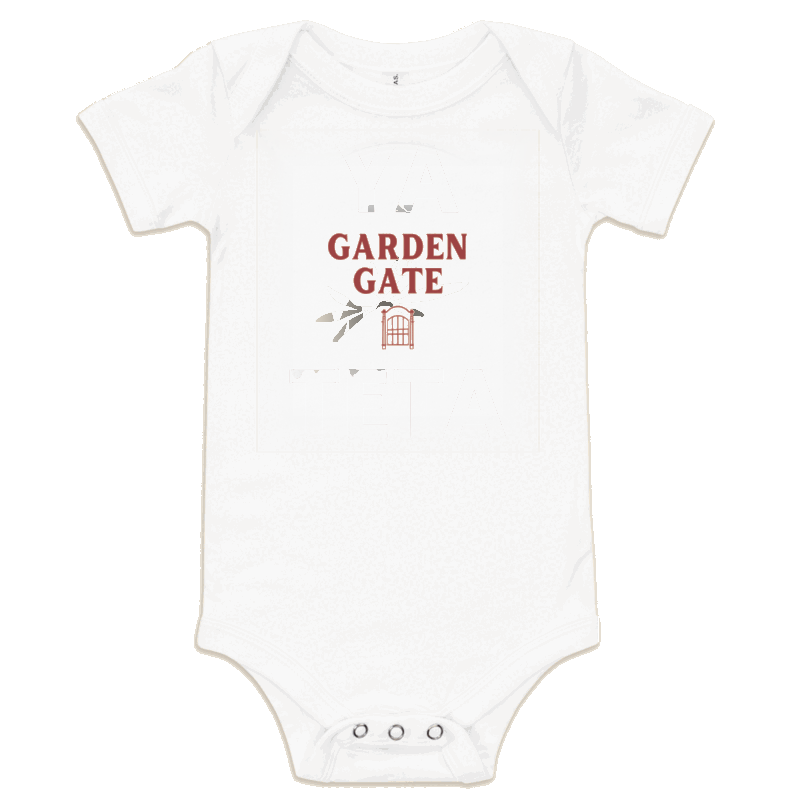
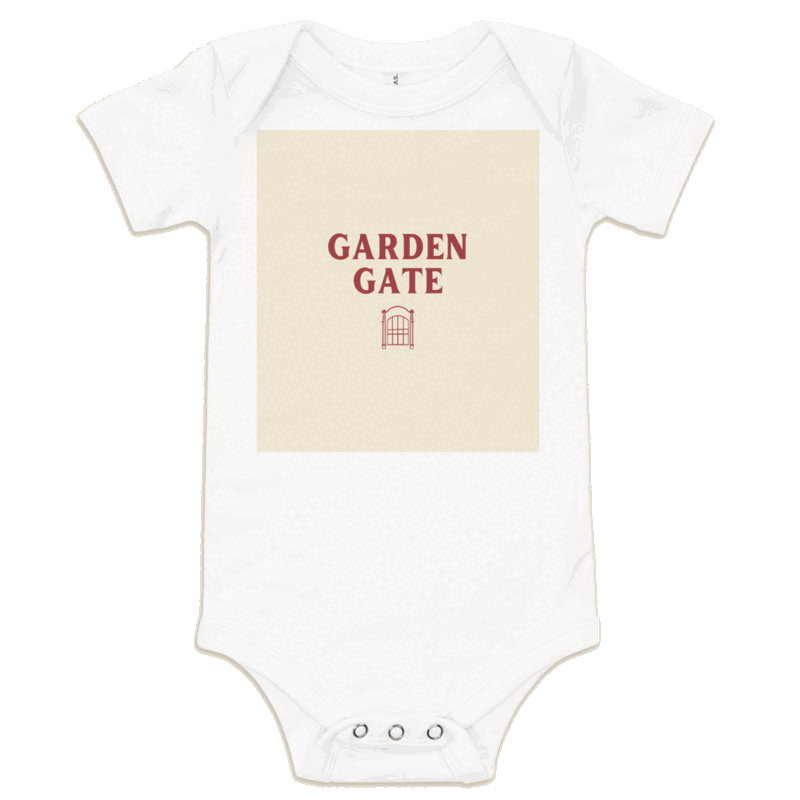
fix(storefront): restore photos that picked up ghost type
The onesie and tote composites were painted onto other products. Those files are back to their 22f9dbc bytes. The rebalanced Gather & Grow art stays in the pipeline, and the share image keeps a small ESTD 2024 line.

Changed region(s): [[0.3125, 0.1562, 0.6875, 0.5625]]

diff --git a/site/shop.html b/site/shop.html
@@ -185,7 +185,7 @@
     <div class="product-row"><h3>Early Light</h3><span class="price">$31.99</span></div>
   </div>
 </a><a class="product-card reveal" href="product-gather-grow.html" data-category="totes">
-  <div class="product-media"><img class="mockup" src="assets/mockups/gather-grow.png?v=15" alt="Gather &amp; Grow" width="800" height="800" loading="lazy" decoding="async"></div>
+  <div class="product-media"><img class="mockup" src="assets/mockups/gather-grow.png?v=14" alt="Gather &amp; Grow" width="800" height="800" loading="lazy" decoding="async"></div>
   <div class="product-copy">
     <div class="product-type">Tote</div>
     <div class="product-row"><h3>Gather &amp; Grow</h3><span class="price">$31.99</span></div>
@@ -211,8 +211,8 @@
     <div class="product-type">Onesie</div>
     <div class="product-row"><h3>Amoura</h3><span class="price">$27.99</span></div>
   </div>
-</a><a class="product-card reveal" href="product-garden-gate.html" data-category="baby" data-preview="[&quot;assets/angles/garden-gate/back-view.png?v=18&quot;]">
-  <div class="product-media"><img class="mockup" src="assets/mockups/garden-gate.png?v=18" alt="Garden Gate" width="800" height="800" loading="lazy" decoding="async"></div>
+</a><a class="product-card reveal" href="product-garden-gate.html" data-category="baby" data-preview="[&quot;assets/angles/garden-gate/back-view.png?v=17&quot;]">
+  <div class="product-media"><img class="mockup" src="assets/mockups/garden-gate.png?v=17" alt="Garden Gate" width="800" height="800" loading="lazy" decoding="async"></div>
   <div class="product-copy">
     <div class="product-type">Onesie</div>
     <div class="product-row"><h3>Garden Gate</h3><span class="price">$27.99</span></div>

diff --git a/site/index.html b/site/index.html
@@ -162,10 +162,10 @@
   <div class="pcard-media"><img class="mockup" src="assets/angles/khalas-habibi/front.png?v=11" alt="Khalas Habibi" width="800" height="800" loading="lazy" decoding="async"></div>
   <div class="pcard-type">Tee</div>
   <div class="pcard-row"><div class="pcard-title">Khalas Habibi</div><div class="pcard-price">$24.99</div></div>
-</a><a class="pcard reveal" href="product-gather-grow.html" data-category="totes">
-  <div class="pcard-media"><img class="mockup" src="assets/angles/gather-grow/handle-on-right.png?v=15" alt="Gather &amp; Grow" width="800" height="800" loading="lazy" decoding="async"></div>
+</a><a class="pcard reveal" href="product-sit-el-kul.html" data-category="totes">
+  <div class="pcard-media"><img class="mockup" src="assets/angles/sit-el-kul/handle-on-right.png?v=14" alt="Sit El Kul" width="800" height="800" loading="lazy" decoding="async"></div>
   <div class="pcard-type">Tote</div>
-  <div class="pcard-row"><div class="pcard-title">Gather &amp; Grow</div><div class="pcard-price">$31.99</div></div>
+  <div class="pcard-row"><div class="pcard-title">Sit El Kul</div><div class="pcard-price">$31.99</div></div>
 </a><a class="pcard reveal" href="product-ya-teta.html" data-category="baby">
   <div class="pcard-media"><img class="mockup" src="assets/angles/ya-teta/front-view.png?v=11" alt="Ya Teta" width="800" height="800" loading="lazy" decoding="async"></div>
   <div class="pcard-type">Onesie</div>

diff --git a/site/product-garden-gate.html b/site/product-garden-gate.html
@@ -78,10 +78,10 @@
 </div>
 <main id="main">
   <div class="shell product-page">
-    <div class="spin" data-spin data-kind="baby" data-frames="[{&quot;src&quot;:&quot;assets/angles/garden-gate/front-view.png?v=18&quot;,&quot;label&quot;:&quot;front view&quot;},{&quot;src&quot;:&quot;assets/angles/garden-gate/back-view.png?v=18&quot;,&quot;label&quot;:&quot;back view&quot;}]" data-alt="Garden Gate">
+    <div class="spin" data-spin data-kind="baby" data-frames="[{&quot;src&quot;:&quot;assets/angles/garden-gate/front-view.png?v=17&quot;,&quot;label&quot;:&quot;front view&quot;},{&quot;src&quot;:&quot;assets/angles/garden-gate/back-view.png?v=17&quot;,&quot;label&quot;:&quot;back view&quot;}]" data-alt="Garden Gate">
       <div class="spin-counter" data-spin-counter>front view</div>
       <div class="spin-stage" data-spin-stage>
-        <img data-spin-image class="mockup" src="assets/angles/garden-gate/front-view.png?v=18" alt="Garden Gate" width="1200" height="1200" decoding="async">
+        <img data-spin-image class="mockup" src="assets/angles/garden-gate/front-view.png?v=17" alt="Garden Gate" width="1200" height="1200" decoding="async">
       </div>
       <div class="spin-hint" data-spin-hint>Drag to rotate</div>
       <div class="spin-controls">

diff --git a/site/onesies.html b/site/onesies.html
@@ -95,8 +95,8 @@
     <div class="product-type">Onesie</div>
     <div class="product-row"><h3>Amoura</h3><span class="price">$27.99</span></div>
   </div>
-</a><a class="product-card reveal" href="product-garden-gate.html" data-category="baby" data-preview="[&quot;assets/angles/garden-gate/back-view.png?v=18&quot;]">
-  <div class="product-media"><img class="mockup" src="assets/mockups/garden-gate.png?v=18" alt="Garden Gate" width="800" height="800" loading="lazy" decoding="async"></div>
+</a><a class="product-card reveal" href="product-garden-gate.html" data-category="baby" data-preview="[&quot;assets/angles/garden-gate/back-view.png?v=17&quot;]">
+  <div class="product-media"><img class="mockup" src="assets/mockups/garden-gate.png?v=17" alt="Garden Gate" width="800" height="800" loading="lazy" decoding="async"></div>
   <div class="product-copy">
     <div class="product-type">Onesie</div>
     <div class="product-row"><h3>Garden Gate</h3><span class="price">$27.99</span></div>

diff --git a/site/product-gather-grow.html b/site/product-gather-grow.html
@@ -78,9 +78,9 @@
 </div>
 <main id="main">
   <div class="shell product-page">
-    <div class="spin" data-spin data-kind="totes" data-frames="[{&quot;src&quot;:&quot;assets/angles/gather-grow/handle-on-right.png?v=15&quot;,&quot;label&quot;:&quot;Handle on Right&quot;}]" data-alt="Gather &amp; Grow">
+    <div class="spin" data-spin data-kind="totes" data-frames="[{&quot;src&quot;:&quot;assets/angles/gather-grow/handle-on-right.png?v=14&quot;,&quot;label&quot;:&quot;Handle on Right&quot;}]" data-alt="Gather &amp; Grow">
       <div class="spin-stage" data-spin-stage>
-        <img data-spin-image class="mockup" src="assets/angles/gather-grow/handle-on-right.png?v=15" alt="Gather &amp; Grow" width="1200" height="1200" decoding="async">
+        <img data-spin-image class="mockup" src="assets/angles/gather-grow/handle-on-right.png?v=14" alt="Gather &amp; Grow" width="1200" height="1200" decoding="async">
       </div>
     </div>
     <div class="product-meta">

diff --git a/site/product-halawa.html b/site/product-halawa.html
@@ -115,7 +115,7 @@
     <div class="product-row"><h3>Early Light</h3><span class="price">$31.99</span></div>
   </div>
 </a><a class="product-card reveal" href="product-gather-grow.html" data-category="totes">
-  <div class="product-media"><img class="mockup" src="assets/mockups/gather-grow.png?v=15" alt="Gather &amp; Grow" width="800" height="800" loading="lazy" decoding="async"></div>
+  <div class="product-media"><img class="mockup" src="assets/mockups/gather-grow.png?v=14" alt="Gather &amp; Grow" width="800" height="800" loading="lazy" decoding="async"></div>
   <div class="product-copy">
     <div class="product-type">Tote</div>
     <div class="product-row"><h3>Gather &amp; Grow</h3><span class="price">$31.99</span></div>

diff --git a/site/product-sit-el-kul.html b/site/product-sit-el-kul.html
@@ -115,7 +115,7 @@
     <div class="product-row"><h3>Early Light</h3><span class="price">$31.99</span></div>
   </div>
 </a><a class="product-card reveal" href="product-gather-grow.html" data-category="totes">
-  <div class="product-media"><img class="mockup" src="assets/mockups/gather-grow.png?v=15" alt="Gather &amp; Grow" width="800" height="800" loading="lazy" decoding="async"></div>
+  <div class="product-media"><img class="mockup" src="assets/mockups/gather-grow.png?v=14" alt="Gather &amp; Grow" width="800" height="800" loading="lazy" decoding="async"></div>
   <div class="product-copy">
     <div class="product-type">Tote</div>
     <div class="product-row"><h3>Gather &amp; Grow</h3><span class="price">$31.99</span></div>

diff --git a/site/totes.html b/site/totes.html
@@ -102,7 +102,7 @@
     <div class="product-row"><h3>Early Light</h3><span class="price">$31.99</span></div>
   </div>
 </a><a class="product-card reveal" href="product-gather-grow.html" data-category="totes">
-  <div class="product-media"><img class="mockup" src="assets/mockups/gather-grow.png?v=15" alt="Gather &amp; Grow" width="800" height="800" loading="lazy" decoding="async"></div>
+  <div class="product-media"><img class="mockup" src="assets/mockups/gather-grow.png?v=14" alt="Gather &amp; Grow" width="800" height="800" loading="lazy" decoding="async"></div>
   <div class="product-copy">
     <div class="product-type">Tote</div>
     <div class="product-row"><h3>Gather &amp; Grow</h3><span class="price">$31.99</span></div>

diff --git a/site/product-early-light.html b/site/product-early-light.html
@@ -115,7 +115,7 @@
     <div class="product-row"><h3>Sit El Kul</h3><span class="price">$31.99</span></div>
   </div>
 </a><a class="product-card reveal" href="product-gather-grow.html" data-category="totes">
-  <div class="product-media"><img class="mockup" src="assets/mockups/gather-grow.png?v=15" alt="Gather &amp; Grow" width="800" height="800" loading="lazy" decoding="async"></div>
+  <div class="product-media"><img class="mockup" src="assets/mockups/gather-grow.png?v=14" alt="Gather &amp; Grow" width="800" height="800" loading="lazy" decoding="async"></div>
   <div class="product-copy">
     <div class="product-type">Tote</div>
     <div class="product-row"><h3>Gather &amp; Grow</h3><span class="price">$31.99</span></div>

diff --git a/site/product-amoura.html b/site/product-amoura.html
@@ -124,7 +124,7 @@
     <div class="product-row"><h3>Ya Teta</h3><span class="price">$27.99</span></div>
   </div>
 </a><a class="product-card reveal" href="product-garden-gate.html" data-category="baby">
-  <div class="product-media"><img class="mockup" src="assets/mockups/garden-gate.png?v=18" alt="Garden Gate" width="800" height="800" loading="lazy" decoding="async"></div>
+  <div class="product-media"><img class="mockup" src="assets/mockups/garden-gate.png?v=17" alt="Garden Gate" width="800" height="800" loading="lazy" decoding="async"></div>
   <div class="product-copy">
     <div class="product-type">Onesie</div>
     <div class="product-row"><h3>Garden Gate</h3><span class="price">$27.99</span></div>

diff --git a/site/product-ya-teta.html b/site/product-ya-teta.html
@@ -124,7 +124,7 @@
     <div class="product-row"><h3>Amoura</h3><span class="price">$27.99</span></div>
   </div>
 </a><a class="product-card reveal" href="product-garden-gate.html" data-category="baby">
-  <div class="product-media"><img class="mockup" src="assets/mockups/garden-gate.png?v=18" alt="Garden Gate" width="800" height="800" loading="lazy" decoding="async"></div>
+  <div class="product-media"><img class="mockup" src="assets/mockups/garden-gate.png?v=17" alt="Garden Gate" width="800" height="800" loading="lazy" decoding="async"></div>
   <div class="product-copy">
     <div class="product-type">Onesie</div>
     <div class="product-row"><h3>Garden Gate</h3><span class="price">$27.99</span></div>

diff --git a/pipeline/rebalance-art.py b/pipeline/rebalance-art.py
@@ -1,8 +1,9 @@
 #!/usr/bin/env python3
-"""Rebuild Garden Gate and Gather & Grow from assets already in git.
+"""Write the rebalanced Gather & Grow art for a future tote re-mock.
 
-Reads the originals at 22f9dbc so a second run does not paint over itself.
-Does not call any external API.
+The sprite is transparent maroon type plus the sprig taken from the
+22f9dbc tote. This script does not composite onto a product photo.
+There is no blank tote in the repo, so the live mockup stays untouched.
 """
 from __future__ import annotations
 
@@ -16,8 +17,8 @@ from PIL import Image, ImageDraw, ImageFont
 ROOT = Path(__file__).resolve().parents[1]
 BASE = '22f9dbc'
 MAROON = (125, 46, 33, 255)
-BEIGE = np.array([237.0, 228.0, 207.0])
 SERIF = '/usr/share/fonts/truetype/noto/NotoSerif-Regular.ttf'
+ART = ROOT / 'pipeline' / 'art' / 'gather-grow.png'
 
 
 def original(rel: str) -> Image.Image:
@@ -28,173 +29,14 @@ def original(rel: str) -> Image.Image:
     return im.convert('RGBA')
 
 
-def save(im: Image.Image, rel: str) -> None:
-    path = ROOT / rel
-    path.parent.mkdir(parents=True, exist_ok=True)
-    im.save(path, 'PNG', optimize=True)
-    print('wrote', rel, im.size)
-
-
-def _arr(im: Image.Image) -> np.ndarray:
-    return np.asarray(im.convert('RGBA'))
-
-
-def _fabric_mask(rgb: np.ndarray) -> np.ndarray:
-    return (rgb.mean(2) > 228) & (np.abs(rgb[:, :, 0] - rgb[:, :, 2]) < 18)
-
-
-def _sister_fabric(primary: Image.Image, secondary: Image.Image) -> tuple[np.ndarray, np.ndarray]:
-    a = _arr(primary)[:, :, :3].astype(np.float32)
-    b = _arr(secondary)[:, :, :3].astype(np.float32)
-    src = a.copy()
-    use_b = ~_fabric_mask(a) & _fabric_mask(b)
-    src[use_b] = b[use_b]
-    hole = ~_fabric_mask(a) & ~_fabric_mask(b)
-    return src, hole
-
-
-def _continue_fabric(photo: np.ndarray, sister: np.ndarray | None, hole: np.ndarray | None, box, feather: int):
-    """Fill a print rectangle with the surrounding garment, then the sister photo."""
-    rgb = photo[:, :, :3].astype(np.float32)
-    h, w = rgb.shape[:2]
-    x0, y0, x1, y1 = box
-    mask = np.zeros((h, w), bool)
-    mask[y0:y1 + 1, x0:x1 + 1] = True
-    ys, xs = np.mgrid[0:h, 0:w]
-    dt = (ys - y0).astype(np.float32)
-    db = (y1 - ys).astype(np.float32)
-    dl = (xs - x0).astype(np.float32)
-    dr = (x1 - xs).astype(np.float32)
-    dist = np.minimum(
-        np.minimum(np.maximum(dt, 0), np.maximum(db, 0)),
-        np.minimum(np.maximum(dl, 0), np.maximum(dr, 0)),
-    )
-    ty = np.clip(y0 - 1 - (ys - y0), 0, h - 1)
-    by = np.clip(y1 + 1 + (y1 - ys), 0, h - 1)
-    lx = np.clip(x0 - 1 - (xs - x0), 0, w - 1)
-    rx = np.clip(x1 + 1 + (x1 - xs), 0, w - 1)
-    eps = 0.35
-    wt = np.where(ty < y0, 1 / (np.maximum(dt, 0) + eps) ** 4, 0.0)
-    wb = np.where(by > y1, 1 / (np.maximum(db, 0) + eps) ** 4, 0.0)
-    wl = np.where(lx < x0, 1 / (np.maximum(dl, 0) + eps) ** 4, 0.0)
-    wr = np.where(rx > x1, 1 / (np.maximum(dr, 0) + eps) ** 4, 0.0)
-    wsum = wt + wb + wl + wr
-    mirrored = (
-        rgb[ty, xs] * wt[:, :, None]
-        + rgb[by, xs] * wb[:, :, None]
-        + rgb[ys, lx] * wl[:, :, None]
-        + rgb[ys, rx] * wr[:, :, None]
-    ) / (wsum[:, :, None] + 1e-8)
-    if sister is None:
-        inside = mirrored
-    else:
-        sib = sister.copy()
-        if hole is not None:
-            sib[hole] = mirrored[hole]
-        t = np.clip(dist / float(feather), 0, 1)
-        t = t * t * (3 - 2 * t)
-        inside = mirrored * (1 - t[:, :, None]) + sib * t[:, :, None]
-    out = rgb.copy()
-    out[mask] = inside[mask]
-    return out, mask
-
-
-def _paint_ink(base: np.ndarray, rgb: np.ndarray, mask: np.ndarray) -> np.ndarray:
-    dist = np.abs(rgb - BEIGE).sum(2)
-    redder = (rgb[:, :, 0] - rgb[:, :, 1]) - (BEIGE[0] - BEIGE[1])
-    darker = BEIGE[2] - rgb[:, :, 2]
-    ink = mask & (dist > 26) & ((redder > 12) | (darker > 18))
-    amount = np.where(ink, np.clip((dist - 20) / 75.0, 0, 1), 0.0)
-    safe = np.maximum(amount, 0.18)
-    ink_rgb = np.clip((rgb - (1 - amount)[:, :, None] * BEIGE) / safe[:, :, None], 0, 255)
-    out = np.clip(ink_rgb * amount[:, :, None] + base * (1 - amount[:, :, None]), 0, 255)
-    out[~mask] = rgb[~mask]
-    return out
-
-
-def _edge_ok(im: np.ndarray, box, name: str) -> None:
-    x0, y0, x1, y1 = box
-    lum = im.mean(2)
-    gy = np.abs(lum[1:] - lum[:-1])
-    top = gy[y0 - 1, x0:x1]
-    fabric = gy[max(0, y0 - 28):y0 - 6, x0:x1]
-    ratio = float(top.mean() / (fabric.mean() + 1e-6))
-    print(f'  {name} top-edge ratio {ratio:.2f}')
-    if ratio > 1.5:
-        raise SystemExit(f'{name} still has a print-box edge ({ratio:.2f})')
-
-
-def garden_gate() -> None:
-    mock_box = (257, 130, 538, 451)
-    front_box = (289, 146, 606, 507)
-    back_box = (289, 97, 606, 458)
-
-    photo = original('site/assets/mockups/garden-gate.png')
-    yt = original('site/assets/mockups/ya-teta.png')
-    am = original('site/assets/mockups/amoura.png')
-    sister, hole = _sister_fabric(yt, am)
-    rgb = _arr(photo)[:, :, :3].astype(np.float32)
-    base, mask = _continue_fabric(rgb, sister, hole, mock_box, 36)
-    final = _paint_ink(base, rgb, mask)
-    _edge_ok(final, mock_box, 'mockup')
-    out = _arr(photo).copy()
-    out[:, :, :3] = final.astype(np.uint8)
-    save(Image.fromarray(out), 'site/assets/mockups/garden-gate.png')
-
-    photo = original('site/assets/angles/garden-gate/front-view.png')
-    yt = original('site/assets/angles/ya-teta/front-view.png').resize((900, 900), Image.Resampling.LANCZOS)
-    am = original('site/assets/angles/amoura/front-view.png').resize((900, 900), Image.Resampling.LANCZOS)
-    sister, hole = _sister_fabric(yt, am)
-    rgb = _arr(photo)[:, :, :3].astype(np.float32)
-    base, mask = _continue_fabric(rgb, sister, hole, front_box, 36)
-    final = _paint_ink(base, rgb, mask)
-    _edge_ok(final, front_box, 'front')
-    out = _arr(photo).copy()
-    out[:, :, :3] = final.astype(np.uint8)
-    save(Image.fromarray(out), 'site/assets/angles/garden-gate/front-view.png')
-
-    # The sister back views are the same flat panel, so the back continues
-    # this photo's own fabric instead of borrowing another print.
-    photo = original('site/assets/angles/garden-gate/back-view.png')
-    rgb = _arr(photo)[:, :, :3].astype(np.float32)
-    base, mask = _continue_fabric(rgb, None, None, back_box, 1)
-    final = _paint_ink(base, rgb, mask)
-    _edge_ok(final, back_box, 'back')
-    out = _arr(photo).copy()
-    out[:, :, :3] = final.astype(np.uint8)
-    save(Image.fromarray(out), 'site/assets/angles/garden-gate/back-view.png')
-
-
-def _tote_blank() -> np.ndarray:
-    slugs = ('halawa', 'sit-el-kul', 'early-light')
-    arrs = [_arr(original(f'site/assets/mockups/{slug}.png')).astype(np.float32) for slug in slugs]
-    a, b, c = arrs
-    ab = np.abs(a[:, :, :3] - b[:, :, :3]).sum(2) < 12
-    ac = np.abs(a[:, :, :3] - c[:, :, :3]).sum(2) < 12
-    bc = np.abs(b[:, :, :3] - c[:, :, :3]).sum(2) < 12
-    out = a.copy()
-    out[bc & ~ab] = b[bc & ~ab]
-    out[ac & ~ab & ~bc] = c[ac & ~ab & ~bc]
-    leftover = ~(ab | ac | bc)
-    print('  tote pixels with no agreed blank', int(leftover.sum()))
-    if leftover.any():
-        ys, xs = np.where(leftover)
-        box = (int(xs.min()), int(ys.min()), int(xs.max()), int(ys.max()))
-        filled, _mask = _continue_fabric(out[:, :, :3], None, None, box, 1)
-        rgb = a[:, :, :3].copy()
-        rgb[leftover] = filled[leftover]
-        out = np.dstack([rgb, a[:, :, 3]])
-    return out
-
-
 def _sprig() -> Image.Image:
-    art = _arr(original('site/assets/mockups/gather-grow.png')).astype(np.float32)
-    blank = _arr(original('site/assets/mockups/halawa.png')).astype(np.float32)
+    art = np.asarray(original('site/assets/mockups/gather-grow.png')).astype(np.float32)
+    blank = np.asarray(original('site/assets/mockups/halawa.png')).astype(np.float32)
     delta = np.abs(art[:, :, :3] - blank[:, :, :3]).sum(2)
     zone = np.zeros(delta.shape, bool)
     zone[520:670, 240:560] = True
     ink = zone & (delta > 25)
-    if ink.sum() < 400:
+    if int(ink.sum()) < 400:
         raise SystemExit('sprig did not separate from the tote')
     ys, xs = np.where(ink)
     amount = np.clip(delta / 80.0, 0, 1)
@@ -209,12 +51,11 @@ def _sprig() -> Image.Image:
     return Image.fromarray(crop)
 
 
-def _gather_art(sprig: Image.Image) -> Image.Image:
+def gather_art(sprig: Image.Image) -> Image.Image:
     """Two centered lines, one size, sprig centered underneath. Transparent."""
     canvas = Image.new('RGBA', (640, 520), (0, 0, 0, 0))
     draw = ImageDraw.Draw(canvas)
-    size = 86
-    font = ImageFont.truetype(SERIF, size)
+    font = ImageFont.truetype(SERIF, 86)
     lines = ('GATHER &', 'GROW')
     gap = 8
     boxes = [draw.textbbox((0, 0), line, font=font) for line in lines]
@@ -233,29 +74,11 @@ def _gather_art(sprig: Image.Image) -> Image.Image:
     return canvas.crop(bbox)
 
 
-def gather_grow() -> None:
-    blank = _tote_blank()
-    art = _gather_art(_sprig())
-    # The old print sits in this window on both the mockup and the matching angle.
-    x0, y0, x1, y1 = 257, 367, 544, 654
-    fitted = art.copy()
-    fitted.thumbnail((x1 - x0 - 8, y1 - y0 - 8), Image.Resampling.LANCZOS)
-    layer = Image.fromarray(np.clip(blank, 0, 255).astype(np.uint8), 'RGBA')
-    layer.alpha_composite(
-        fitted,
-        (x0 + (x1 - x0 - fitted.width) // 2, y0 + (y1 - y0 - fitted.height) // 2),
-    )
-    # Mockup and handle-on-right are the same photograph at 22f9dbc.
-    for rel in (
-        'site/assets/mockups/gather-grow.png',
-        'site/assets/angles/gather-grow/handle-on-right.png',
-    ):
-        save(layer, rel)
-
-
 def main() -> None:
-    garden_gate()
-    gather_grow()
+    art = gather_art(_sprig())
+    ART.parent.mkdir(parents=True, exist_ok=True)
+    art.save(ART, 'PNG', optimize=True)
+    print('wrote', ART.relative_to(ROOT), art.size)
 
 
 if __name__ == '__main__':
